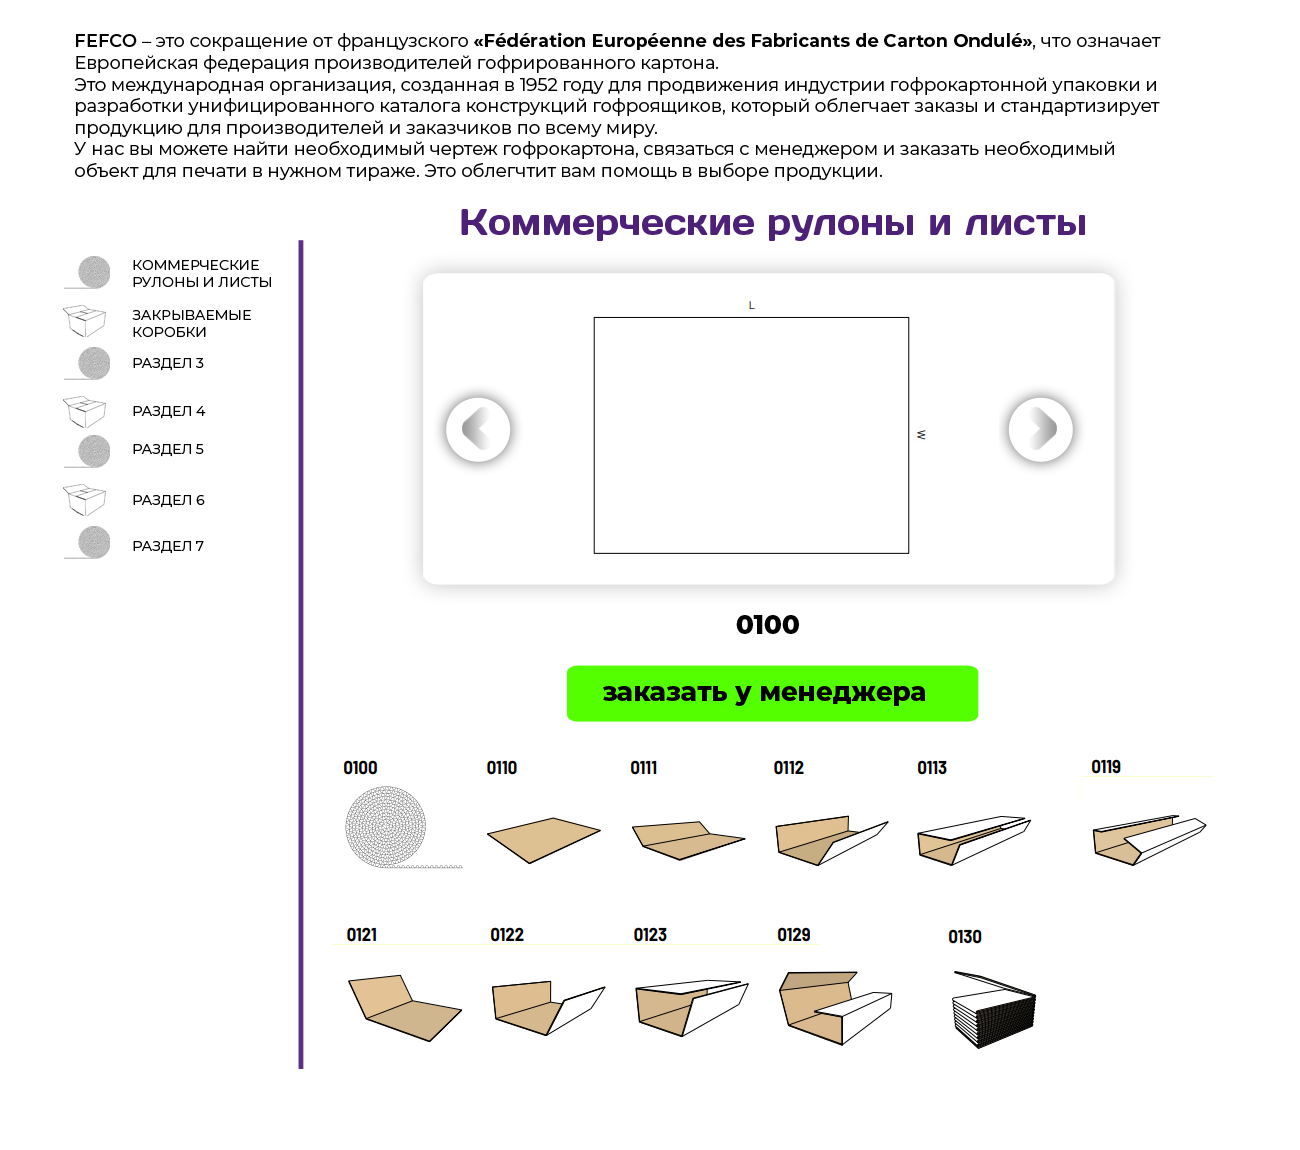
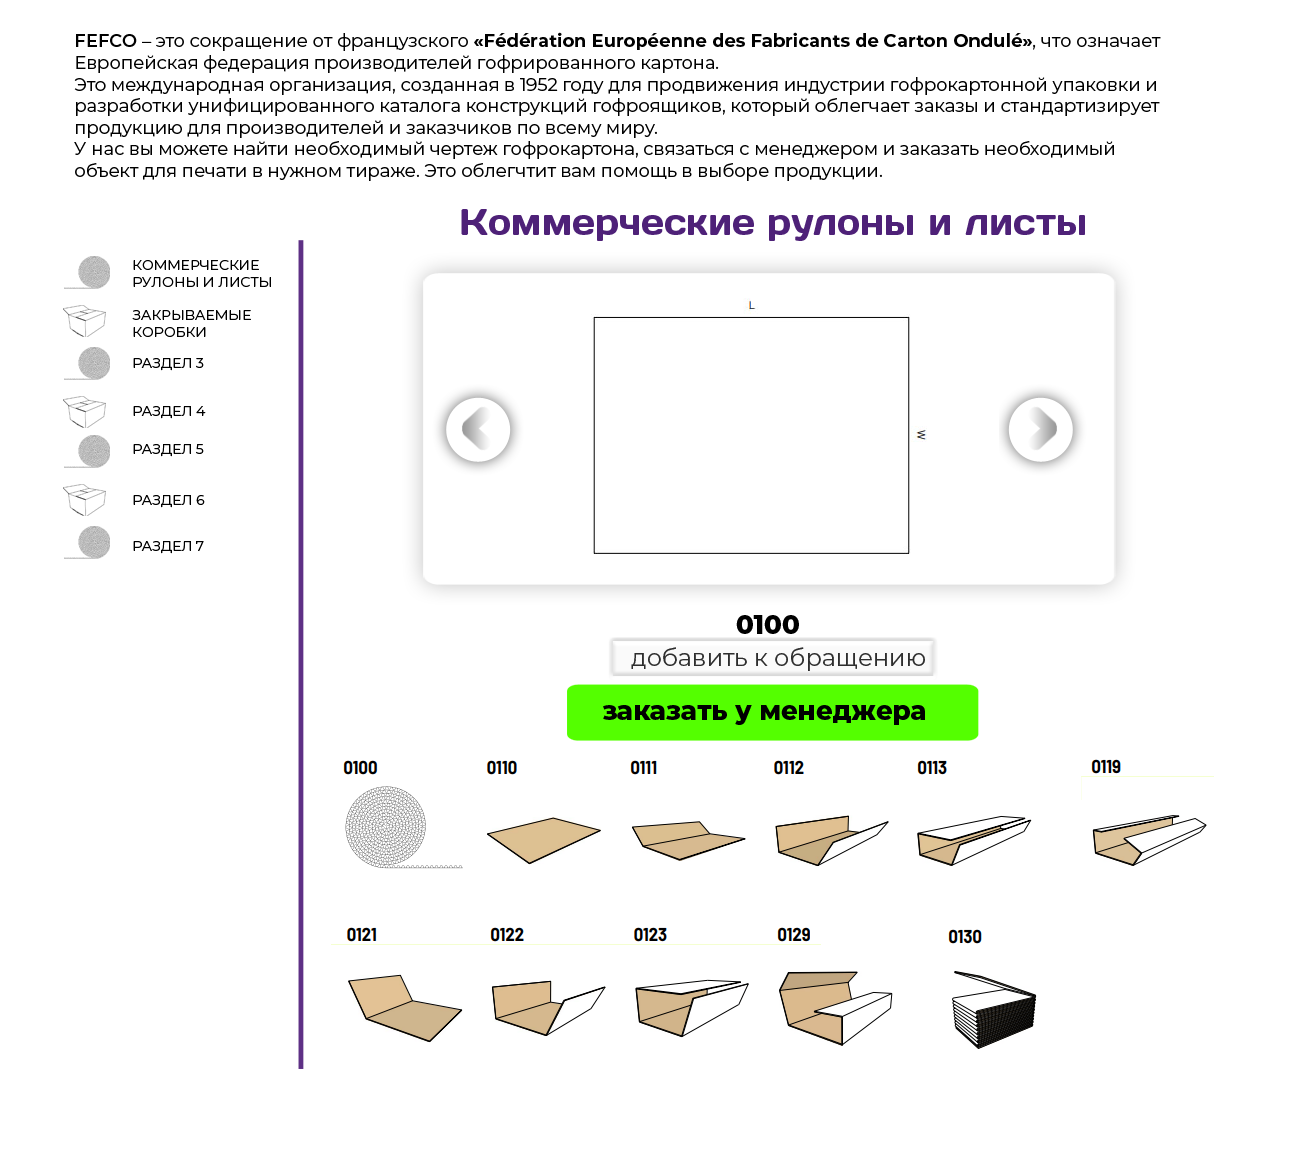
added fefco

Changed region(s): [[0.4308, 0.5478, 0.7692, 0.6696]]

diff --git a/frontend/pages/fefco.vue b/frontend/pages/fefco.vue
@@ -97,11 +97,16 @@
                  </div>
                </ScrollRevealWrapper>
               
-              <!-- Кнопка заказа -->
+              <!-- Кнопки заказа -->
               <ScrollRevealWrapper type="fade-up" :delay="3">
-                <button class="order-btn" @click="showOrderForm = true">
-                  Заказать у менеджера
-                </button>
+                <div class="order-buttons">
+                  <button class="order-btn primary" @click="openOrderForm">
+                    Заказать у менеджера
+                  </button>
+                  <button class="order-btn secondary" @click="addToOrder" :disabled="!selectedDrawing">
+                    Добавить к обращению
+                  </button>
+                </div>
               </ScrollRevealWrapper>
               
                              <!-- Область чертежей -->
@@ -120,7 +125,7 @@
                             :class="{ active: selectedDrawing === drawing }"
                             @click="selectDrawing(drawing)">
                          <div class="drawing-icon">
-                           <img :src="`/assets/fefco/icons/${drawing}.svg`" :alt="drawing" />
+                           <img :src="`/assets/fefco/preview/${drawing}_thumb.jpg`" :alt="drawing" />
                          </div>
                          <span class="drawing-number">{{ drawing }}</span>
                        </div>
@@ -143,7 +148,7 @@
                               :class="{ active: selectedDrawing === drawing }"
                               @click="selectDrawing(drawing)">
                            <div class="drawing-icon">
-                             <img :src="`/assets/fefco/icons/${drawing}.svg`" :alt="drawing" />
+                             <img :src="`/assets/fefco/preview/${drawing}_thumb.jpg`" :alt="drawing" />
                            </div>
                            <span class="drawing-number">{{ drawing }}</span>
                          </div>
@@ -160,13 +165,13 @@
     
     <!-- Подвал -->
     <div class="scroll-reveal scroll-reveal-fade-up scroll-reveal-delay-3">
-      <FooterNew />
+      <Footer />
     </div>
     
     <!-- Модальное окно заказа -->
     <div v-if="showOrderForm" class="modal-overlay" @click.self="showOrderForm = false">
       <div class="modal-content">
-        <OrderForm @close="showOrderForm = false" />
+        <OrderForm @close="showOrderForm = false" :prefilled-message="orderMessage" />
         <button class="close-btn" @click="showOrderForm = false">×</button>
       </div>
     </div>
@@ -181,7 +186,7 @@
 <script setup>
 import { ref, computed, onMounted, onUnmounted } from 'vue'
 import HeaderSimple from '../components/HeaderSimple.vue'
-import FooterNew from '../components/FooterNew.vue'
+import Footer from '../components/Footer.vue'
 
 // Состояние
 const selectedSection = ref('commercial')
@@ -190,51 +195,53 @@ const currentSlide = ref(0)
 const showOrderForm = ref(false)
 const fullscreenImage = ref(null)
 const showAllDrawings = ref(false)
+const selectedItems = ref([]) // Для накопления выбранных позиций
 
 // Меню
 const menuItems = [
   {
     id: 'commercial',
     title: 'КОММЕРЧЕСКИЕ\nРУЛОНЫ И ЛИСТЫ',
-    icon: '/assets/fefco/img/icon_roll.png'
+    icon: '/assets/fefco/img/icon_roll.png',
+    folder: '1'
   },
   {
     id: 'boxes',
     title: 'ЗАКРЫВАЕМЫЕ\nКОРОБКИ',
-    icon: '/assets/fefco/img/icon_box1.png'
+    icon: '/assets/fefco/img/icon_box1.png',
+    folder: '2'
   },
   {
-    id: 'section3',
-    title: 'РАЗДЕЛ 3',
-    icon: '/assets/fefco/img/icon_roll.png'
-  },
-  {
-    id: 'section4',
-    title: 'РАЗДЕЛ 4',
-    icon: '/assets/fefco/img/icon_box1.png'
-  },
-  {
-    id: 'section5',
-    title: 'РАЗДЕЛ 5',
-    icon: '/assets/fefco/img/icon_roll.png'
-  },
-  {
-    id: 'section6',
-    title: 'РАЗДЕЛ 6',
-    icon: '/assets/fefco/img/icon_box1.png'
-  },
-  {
-    id: 'section7',
-    title: 'РАЗДЕЛ 7',
-    icon: '/assets/fefco/img/icon_roll.png'
+    id: 'telescopic',
+    title: 'ТЕЛЕСКОПИЧЕСКИЕ\nКОРОБКИ',
+    icon: '/assets/fefco/img/icon_box2.png',
+    folder: '3'
   }
 ]
 
-// Доступные чертежи
-const availableDrawings = [
-  '0100', '0110', '0111', '0112', '0113', '0119',
-  '0121', '0122', '0123', '0129', '0130'
-]
+// Доступные чертежи по разделам
+const drawingsBySection = {
+  'commercial': [
+    '0100', '0110', '0111', '0112', '0113', '0119',
+    '0121', '0122', '0123', '0129', '0130'
+  ],
+  'boxes': [
+    '0200', '0201', '0202', '0203', '0204', '0205', '0206', '0207', '0208', '0209',
+    '0210', '0211', '0212', '0214', '0215', '0216', '0217', '0218', '0219', '0220',
+    '0221', '0222', '0225', '0226', '0227', '0228', '0229', '0229.1', '0230', '0231',
+    '0232', '0233', '0233.1', '0240', '0241', '0242'
+  ],
+  'telescopic': [
+    '0301', '0302', '0303', '0304', '0306', '0307', '0308', '0309', '0310', '0312',
+    '0313', '0314', '0319', '0320', '0321', '0322', '0323', '0325', '0330', '0331',
+    '0350', '0351', '0352', '0360'
+  ]
+}
+
+// Доступные чертежи для текущего раздела
+const availableDrawings = computed(() => {
+  return drawingsBySection[selectedSection.value] || []
+})
 
 // Текущий раздел
 const currentSection = computed(() => {
@@ -246,16 +253,17 @@ const currentImages = computed(() => {
   if (!selectedDrawing.value) return []
   
   const drawing = selectedDrawing.value
+  const folder = currentSection.value.folder
   const images = []
   
   // Проверяем наличие изображений по номеру
   if (drawing === '0100') {
     // Для 0100 только одно изображение
-    images.push(`/assets/fefco/1/0100.jpg`)
+    images.push(`/assets/fefco/${folder}/0100.jpg`)
   } else {
     // Для остальных два изображения
-    images.push(`/assets/fefco/1/${drawing}_1.jpg`)
-    images.push(`/assets/fefco/1/${drawing}_2.jpg`)
+    images.push(`/assets/fefco/${folder}/${drawing}_1.jpg`)
+    images.push(`/assets/fefco/${folder}/${drawing}_2.jpg`)
   }
   
   return images
@@ -266,6 +274,12 @@ const selectSection = (sectionId) => {
   selectedSection.value = sectionId
   selectedDrawing.value = null
   currentSlide.value = 0
+  
+  // Автоматически выбираем первый чертеж нового раздела
+  const drawings = drawingsBySection[sectionId] || []
+  if (drawings.length > 0) {
+    selectDrawing(drawings[0])
+  }
 }
 
 const selectDrawing = (drawing) => {
@@ -301,6 +315,25 @@ const closeFullscreen = () => {
   fullscreenImage.value = null
 }
 
+// Методы для работы с заказами
+const addToOrder = () => {
+  if (selectedDrawing.value && !selectedItems.value.includes(selectedDrawing.value)) {
+    selectedItems.value.push(selectedDrawing.value)
+  }
+}
+
+const openOrderForm = () => {
+  showOrderForm.value = true
+}
+
+// Формируем сообщение для заказа
+const orderMessage = computed(() => {
+  if (selectedItems.value.length === 0 && selectedDrawing.value) {
+    return `FEFCO ${selectedDrawing.value}`
+  }
+  return selectedItems.value.map(item => `FEFCO ${item}`).join(', ')
+})
+
 
 
 
@@ -309,8 +342,10 @@ const closeFullscreen = () => {
 let slideInterval = null
 
 onMounted(() => {
-  // Автоматически выбираем первый чертеж
-  selectDrawing('0100')
+  // Автоматически выбираем первый чертеж из текущего раздела
+  if (availableDrawings.value.length > 0) {
+    selectDrawing(availableDrawings.value[0])
+  }
   
   // Автоматическое переключение каждые 3 секунды
   slideInterval = setInterval(() => {
@@ -611,10 +646,15 @@ useHead({
   }
 }
 
-// Кнопка заказа
+// Кнопки заказа
+.order-buttons {
+  display: flex;
+  gap: 15px;
+  margin-bottom: 30px;
+  flex-wrap: wrap;
+}
+
 .order-btn {
-  background: #00d4aa;
-  color: white;
   border: none;
   padding: 15px 30px;
   border-radius: 6px;
@@ -622,11 +662,31 @@ useHead({
   font-weight: 600;
   cursor: pointer;
   transition: all 0.3s ease;
-  margin-bottom: 30px;
   
-  &:hover {
-    background: #00b894;
-    transform: translateY(-2px);
+  &.primary {
+    background: #00d4aa;
+    color: white;
+    
+    &:hover {
+      background: #00b894;
+      transform: translateY(-2px);
+    }
+  }
+  
+  &.secondary {
+    background: #5e3085;
+    color: white;
+    
+    &:hover:not(:disabled) {
+      background: #4a2a6b;
+      transform: translateY(-2px);
+    }
+    
+    &:disabled {
+      background: #ccc;
+      cursor: not-allowed;
+      opacity: 0.6;
+    }
   }
 }
 
@@ -712,12 +772,18 @@ useHead({
   width: 60px;
   height: 60px;
   margin-bottom: 10px;
+  overflow: hidden;
   
   img {
     width: 100%;
     height: 100%;
     object-fit: contain;
+    transition: transform 0.3s ease;
   }
+}
+
+.drawing-item:hover .drawing-icon img {
+  transform: scale(1.2);
 }
 
 .drawing-number {
